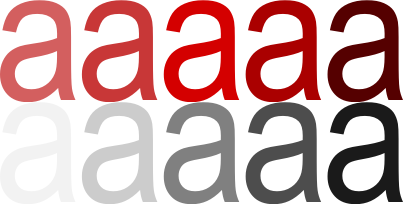
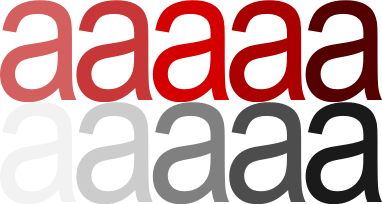
added two a's

diff --git a/gold_test.css b/gold_test.css
@@ -14,38 +14,35 @@ body {
 	height: 1110px;
 } 
 
-img{
+.aa {
 	position:absolute;
 	top: 290px;
 	left: 240px;
 	background-image:url("image/aa.png");
-	background-position: -158px -102px;
-	width: 80px;
+	background-position: -229px 0px;
+	width: 76px;
 	height: 102px;
 }
 
-img:hover{
+.aa:hover {
 	position:absolute;
 	top: 290px;
 	left: 240px;
 	background-image:url("image/aa.png");
 	background-position:-76px -0px;
-	width: 80px;
+	width: 76px;
 	height: 102px;
 }
 
-.a2{
+.aa1 {
 	position:absolute;
 	top: 290px;
-	left: 240px;
+	left: 320px;
 	background-image:url("image/aa.png");
-	background-position: 10px, 10px;
-	background-repeat: no-repeat; 
-	width: 75px;
+	background-position: -229px 0px;
+	width: 76px;
 	height: 102px;
 }
-
-
 
 #curve {
 	position: absolute;
@@ -60,7 +57,7 @@ img:hover{
 
 #square_3 {
 	position: absolute;
-	background-color: DarkSlateGray;
+	background-color: grey;
 	width: 424px;
 	height: 424px;
 	z-index: 9;

diff --git a/golden_section_2.html b/golden_section_2.html
@@ -21,7 +21,7 @@
 			<div class = "switches_color" id="square_11"></div>
 			<div class = "switches_color" id="square_12"></div>
 		</div>
-		<div id="curve"><img src="image/transparent.gif"></div>
+		<div id="curve"><img class="aa" src="image/transparent.gif"><img class="aa1" src="image/transparent.gif"></div>
 		<script src='lib/jquery-1.6.1.js' type="text/javascript" charset="utf-8"></script>
 		<script src='lib/golden_section.js' type="text/javascript" charset="utf-8"></script>
 	</body>
